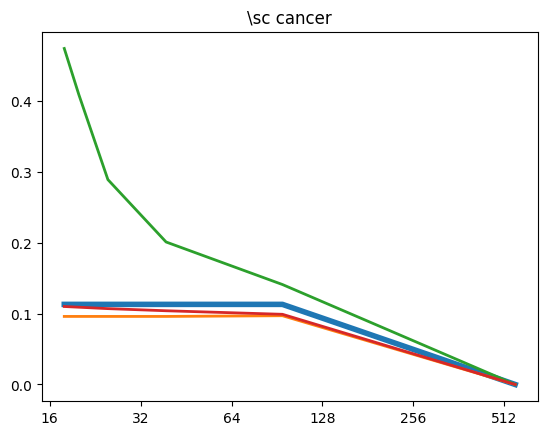
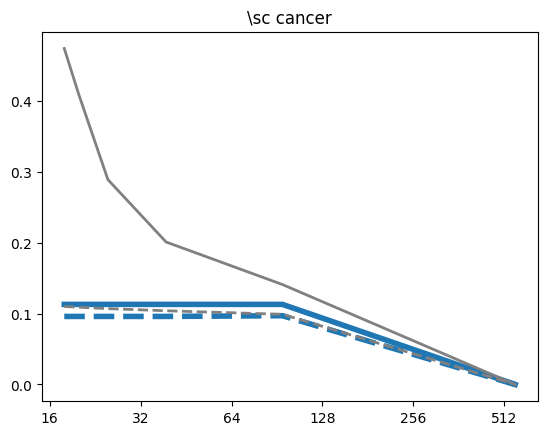
Changing UCI plotting

diff --git a/bnn-predictive/notebooks/plots/tikz/glass.tex b/bnn-predictive/notebooks/plots/tikz/glass.tex
@@ -3,10 +3,8 @@
 scale=0.5
 ]
 
-\definecolor{crimson2143940}{RGB}{214,39,40}
 \definecolor{darkgray176}{RGB}{176,176,176}
-\definecolor{darkorange25512714}{RGB}{255,127,14}
-\definecolor{forestgreen4416044}{RGB}{44,160,44}
+\definecolor{gray}{RGB}{128,128,128}
 \definecolor{steelblue31119180}{RGB}{31,119,180}
 
 \begin{axis}[
@@ -31,7 +29,7 @@ table {%
 256 0.926
 512 0.926
 };
-\addplot [thick, darkorange25512714]
+\addplot [ultra thick, steelblue31119180, dashed]
 table {%
 16 0.901
 32 0.871
@@ -40,7 +38,7 @@ table {%
 256 0.874
 512 0.874
 };
-\addplot [thick, forestgreen4416044]
+\addplot [thick, gray]
 table {%
 16 1.255
 32 1.148
@@ -49,7 +47,7 @@ table {%
 256 0.927
 512 0.928
 };
-\addplot [thick, crimson2143940]
+\addplot [thick, gray, dashed]
 table {%
 16 1.017
 32 0.994

diff --git a/bnn-predictive/notebooks/plots/tikz/australian.tex b/bnn-predictive/notebooks/plots/tikz/australian.tex
@@ -3,10 +3,8 @@
 scale=0.5
 ]
 
-\definecolor{crimson2143940}{RGB}{214,39,40}
 \definecolor{darkgray176}{RGB}{176,176,176}
-\definecolor{darkorange25512714}{RGB}{255,127,14}
-\definecolor{forestgreen4416044}{RGB}{44,160,44}
+\definecolor{gray}{RGB}{128,128,128}
 \definecolor{steelblue31119180}{RGB}{31,119,180}
 
 \begin{axis}[
@@ -31,7 +29,7 @@ table {%
 256 0.324
 512 0.324
 };
-\addplot [thick, darkorange25512714]
+\addplot [ultra thick, steelblue31119180, dashed]
 table {%
 16 0.319
 32 0.315
@@ -40,7 +38,7 @@ table {%
 256 0.315
 512 0.315
 };
-\addplot [thick, forestgreen4416044]
+\addplot [thick, gray]
 table {%
 16 0.573
 32 0.51
@@ -49,7 +47,7 @@ table {%
 256 0.342
 512 0.325
 };
-\addplot [thick, crimson2143940]
+\addplot [thick, gray, dashed]
 table {%
 16 0.335
 32 0.334

diff --git a/bnn-predictive/notebooks/plots/tikz/digits.tex b/bnn-predictive/notebooks/plots/tikz/digits.tex
@@ -3,10 +3,8 @@
 scale=0.5
 ]
 
-\definecolor{crimson2143940}{RGB}{214,39,40}
 \definecolor{darkgray176}{RGB}{176,176,176}
-\definecolor{darkorange25512714}{RGB}{255,127,14}
-\definecolor{forestgreen4416044}{RGB}{44,160,44}
+\definecolor{gray}{RGB}{128,128,128}
 \definecolor{steelblue31119180}{RGB}{31,119,180}
 
 \begin{axis}[
@@ -31,7 +29,7 @@ table {%
 256 0.37
 512 0.368
 };
-\addplot [thick, darkorange25512714]
+\addplot [ultra thick, steelblue31119180, dashed]
 table {%
 16 0.349
 32 0.321
@@ -40,7 +38,7 @@ table {%
 256 0.291
 512 0.29
 };
-\addplot [thick, forestgreen4416044]
+\addplot [thick, gray]
 table {%
 16 1.888
 32 1.646
@@ -49,7 +47,7 @@ table {%
 256 0.702
 512 0.511
 };
-\addplot [thick, crimson2143940]
+\addplot [thick, gray, dashed]
 table {%
 16 0.439
 32 0.431

diff --git a/bnn-predictive/notebooks/plots/tikz/ionosphere.tex b/bnn-predictive/notebooks/plots/tikz/ionosphere.tex
@@ -3,10 +3,8 @@
 scale=0.5
 ]
 
-\definecolor{crimson2143940}{RGB}{214,39,40}
 \definecolor{darkgray176}{RGB}{176,176,176}
-\definecolor{darkorange25512714}{RGB}{255,127,14}
-\definecolor{forestgreen4416044}{RGB}{44,160,44}
+\definecolor{gray}{RGB}{128,128,128}
 \definecolor{steelblue31119180}{RGB}{31,119,180}
 
 \begin{axis}[
@@ -31,7 +29,7 @@ table {%
 256 0.339
 512 0.339
 };
-\addplot [thick, darkorange25512714]
+\addplot [ultra thick, steelblue31119180, dashed]
 table {%
 16 0.302
 32 0.297
@@ -40,7 +38,7 @@ table {%
 256 0.296
 512 0.296
 };
-\addplot [thick, forestgreen4416044]
+\addplot [thick, gray]
 table {%
 16 0.597
 32 0.537
@@ -49,7 +47,7 @@ table {%
 256 0.34
 512 0.34
 };
-\addplot [thick, crimson2143940]
+\addplot [thick, gray, dashed]
 table {%
 16 0.353
 32 0.339

diff --git a/bnn-predictive/notebooks/plots/tikz/satellite.tex b/bnn-predictive/notebooks/plots/tikz/satellite.tex
@@ -3,10 +3,8 @@
 scale=0.5
 ]
 
-\definecolor{crimson2143940}{RGB}{214,39,40}
 \definecolor{darkgray176}{RGB}{176,176,176}
-\definecolor{darkorange25512714}{RGB}{255,127,14}
-\definecolor{forestgreen4416044}{RGB}{44,160,44}
+\definecolor{gray}{RGB}{128,128,128}
 \definecolor{steelblue31119180}{RGB}{31,119,180}
 
 \begin{axis}[
@@ -31,7 +29,7 @@ table {%
 256 0.29
 512 0.289
 };
-\addplot [thick, darkorange25512714]
+\addplot [ultra thick, steelblue31119180, dashed]
 table {%
 16 0.291
 32 0.277
@@ -40,7 +38,7 @@ table {%
 256 0.264
 512 0.258
 };
-\addplot [thick, forestgreen4416044]
+\addplot [thick, gray]
 table {%
 16 1.312
 32 1.12
@@ -49,7 +47,7 @@ table {%
 256 0.554
 512 0.435
 };
-\addplot [thick, crimson2143940]
+\addplot [thick, gray, dashed]
 table {%
 16 0.367
 32 0.361

diff --git a/bnn-predictive/notebooks/plots/tikz/vehicle.tex b/bnn-predictive/notebooks/plots/tikz/vehicle.tex
@@ -3,10 +3,8 @@
 scale=0.5
 ]
 
-\definecolor{crimson2143940}{RGB}{214,39,40}
 \definecolor{darkgray176}{RGB}{176,176,176}
-\definecolor{darkorange25512714}{RGB}{255,127,14}
-\definecolor{forestgreen4416044}{RGB}{44,160,44}
+\definecolor{gray}{RGB}{128,128,128}
 \definecolor{steelblue31119180}{RGB}{31,119,180}
 
 \begin{axis}[
@@ -31,7 +29,7 @@ table {%
 256 0.485
 512 0.484
 };
-\addplot [thick, darkorange25512714]
+\addplot [ultra thick, steelblue31119180, dashed]
 table {%
 16 0.496
 32 0.486
@@ -40,7 +38,7 @@ table {%
 256 0.443
 512 0.444
 };
-\addplot [thick, forestgreen4416044]
+\addplot [thick, gray]
 table {%
 16 1.143
 32 1.016
@@ -49,7 +47,7 @@ table {%
 256 0.615
 512 0.5
 };
-\addplot [thick, crimson2143940]
+\addplot [thick, gray, dashed]
 table {%
 16 0.604
 32 0.577

diff --git a/bnn-predictive/notebooks/plots/tikz/waveform.tex b/bnn-predictive/notebooks/plots/tikz/waveform.tex
@@ -3,10 +3,8 @@
 scale=0.5
 ]
 
-\definecolor{crimson2143940}{RGB}{214,39,40}
 \definecolor{darkgray176}{RGB}{176,176,176}
-\definecolor{darkorange25512714}{RGB}{255,127,14}
-\definecolor{forestgreen4416044}{RGB}{44,160,44}
+\definecolor{gray}{RGB}{128,128,128}
 \definecolor{steelblue31119180}{RGB}{31,119,180}
 
 \begin{axis}[
@@ -31,7 +29,7 @@ table {%
 256 0.349
 512 0.349
 };
-\addplot [thick, darkorange25512714]
+\addplot [ultra thick, steelblue31119180, dashed]
 table {%
 16 0.348
 32 0.343
@@ -40,7 +38,7 @@ table {%
 256 0.34
 512 0.34
 };
-\addplot [thick, forestgreen4416044]
+\addplot [thick, gray]
 table {%
 16 0.7
 32 0.574
@@ -49,7 +47,7 @@ table {%
 256 0.383
 512 0.357
 };
-\addplot [thick, crimson2143940]
+\addplot [thick, gray, dashed]
 table {%
 16 0.37
 32 0.365

diff --git a/bnn-predictive/notebooks/plots/tikz/breast_cancer.tex b/bnn-predictive/notebooks/plots/tikz/breast_cancer.tex
@@ -3,10 +3,8 @@
 scale=0.5
 ]
 
-\definecolor{crimson2143940}{RGB}{214,39,40}
 \definecolor{darkgray176}{RGB}{176,176,176}
-\definecolor{darkorange25512714}{RGB}{255,127,14}
-\definecolor{forestgreen4416044}{RGB}{44,160,44}
+\definecolor{gray}{RGB}{128,128,128}
 \definecolor{steelblue31119180}{RGB}{31,119,180}
 
 \begin{axis}[
@@ -31,7 +29,7 @@ table {%
 256 0.113
 512 0
 };
-\addplot [thick, darkorange25512714]
+\addplot [ultra thick, steelblue31119180, dashed]
 table {%
 16 0.096
 32 0.096
@@ -40,7 +38,7 @@ table {%
 256 0.097
 512 0
 };
-\addplot [thick, forestgreen4416044]
+\addplot [thick, gray]
 table {%
 16 0.474
 32 0.409
@@ -49,7 +47,7 @@ table {%
 256 0.141
 512 0
 };
-\addplot [thick, crimson2143940]
+\addplot [thick, gray, dashed]
 table {%
 16 0.11
 32 0.109
